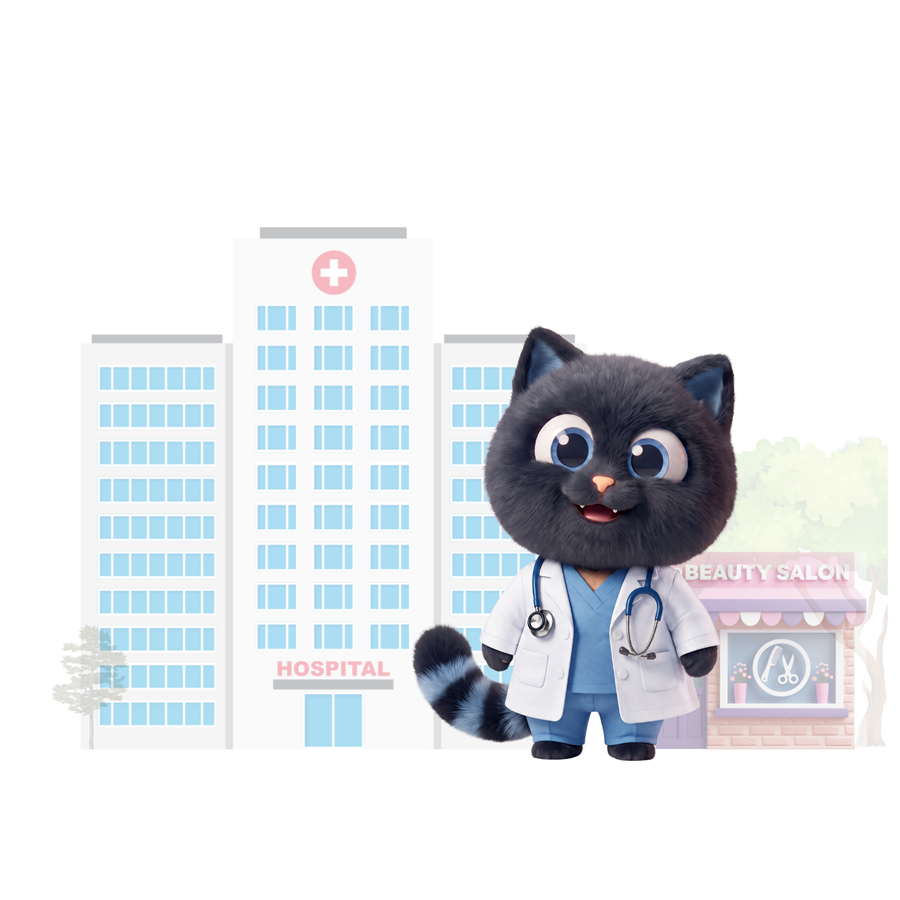
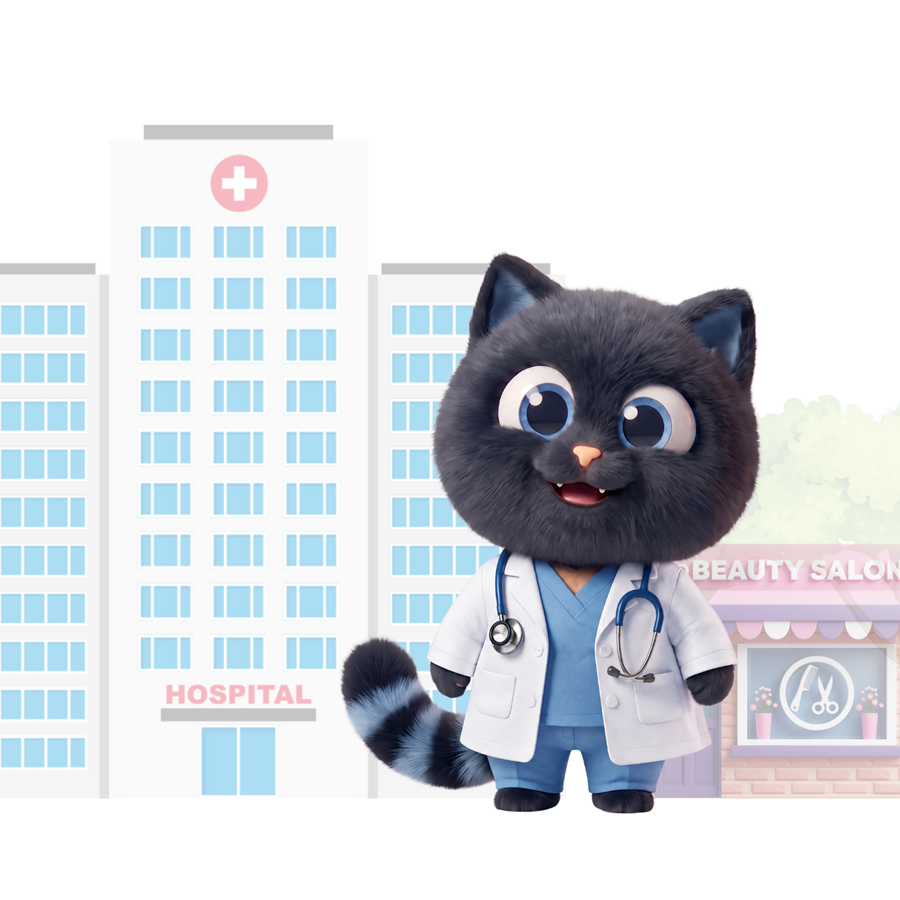
Onboarding: business pictures - tighter Service crop, new Retail picture, keep each cat whole on the card

diff --git a/app/globals.css b/app/globals.css
@@ -4464,6 +4464,13 @@ textarea {
   width: 100%;
   height: 100%;
   object-fit: cover;
+  /* Every picture's cat stands right of centre; trim more from the left so it stays whole. */
+  object-position: 85% center;
+}
+/* These two cats stand nearer the middle; keep them a little further right. */
+.acs-biz.is-fnb .acs-biz-art img,
+.acs-biz.is-service .acs-biz-art img {
+  object-position: 60% center;
 }
 .acs-biz-text {
   display: flex;
